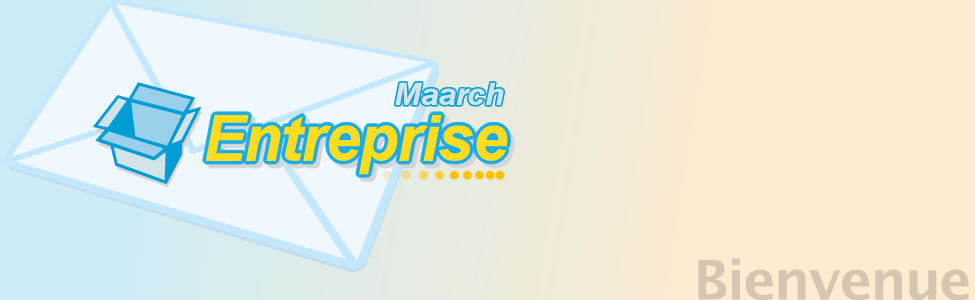
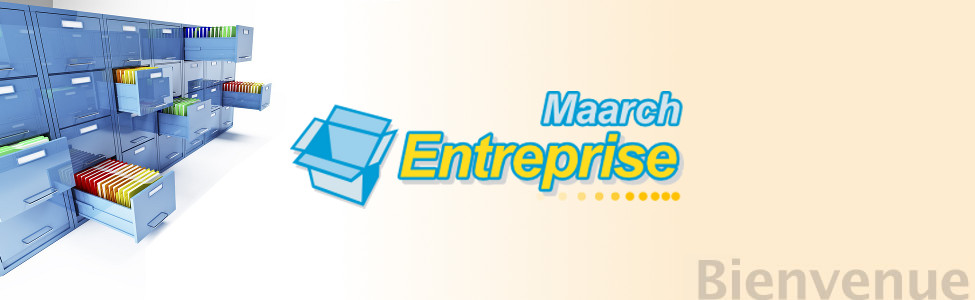
evol : update welcome page

diff --git a/maarch_entreprise/trunk/welcome_file.html b/maarch_entreprise/trunk/welcome_file.html
@@ -31,12 +31,16 @@
 -->
 <table id="welcome_table" summary="">
 	<tr>
-		<td align="right"><span id="welcome_title"><em>Bienvenue dans Maarch Entreprise, <br/>
+		<td align="right" valign="top"><br><br><span id="welcome_title"><em>Bienvenue dans Maarch Entreprise version <strong>1.2</strong>, <br/>
  le <strong>S</strong>ystème d'<strong>A</strong>rchivage <strong>E</strong>lectronique open source !<br/></em></span>
  <br/><br/><br/>
- Pour commencer, cliquez sur le <span class="underlined">menu</span> g&eacute;n&eacute;ral de l'application , <br/>en haut &agrave; gauche dans la barre de titre.
- 
+ Pour commencer, <br/> cliquez sur le <span class="underlined"><strong>menu</strong></span> g&eacute;n&eacute;ral de l'application , <br/>en haut &agrave; gauche dans la barre de titre.
  </td>
 	</tr>
+  <tr>
+    <td align="left" valign="bottom">
+      <i><!--<strong>M</strong>aarch <strong>E</strong>ntreprise--></i>
+    </td>
+  </tr>
 </table>
 

diff --git a/maarch_entreprise/trunk/lang/en.php b/maarch_entreprise/trunk/lang/en.php
@@ -19,6 +19,8 @@
  *    along with Maarch Framework.  If not, see <http://www.gnu.org/licenses/>.
  */
 
+if (!defined('_MEP_VERSION')) define('_MEP_VERSION', 'Maarch Entreprise v1.2');
+
 /************** Administration **************/
 if (!defined('_ADMIN_USERS')) define('_ADMIN_USERS', 'Users');
 if (!defined('_ADMIN_USERS_DESC')) define('_ADMIN_USERS_DESC', 'Add, suspend, or modify users profiles. Affect users to their groups and define their primary group.');

diff --git a/maarch_entreprise/trunk/lang/fr.php b/maarch_entreprise/trunk/lang/fr.php
@@ -19,6 +19,8 @@
  *    along with Maarch Framework.  If not, see <http://www.gnu.org/licenses/>.
  */
 
+if (!defined('_MEP_VERSION')) define('_MEP_VERSION', 'Maarch Entreprise v1.2');
+
 /************** Administration **************/
 if (!defined('_ADMIN_USERS')) {
     define( '_ADMIN_USERS', 'Utilisateurs');
